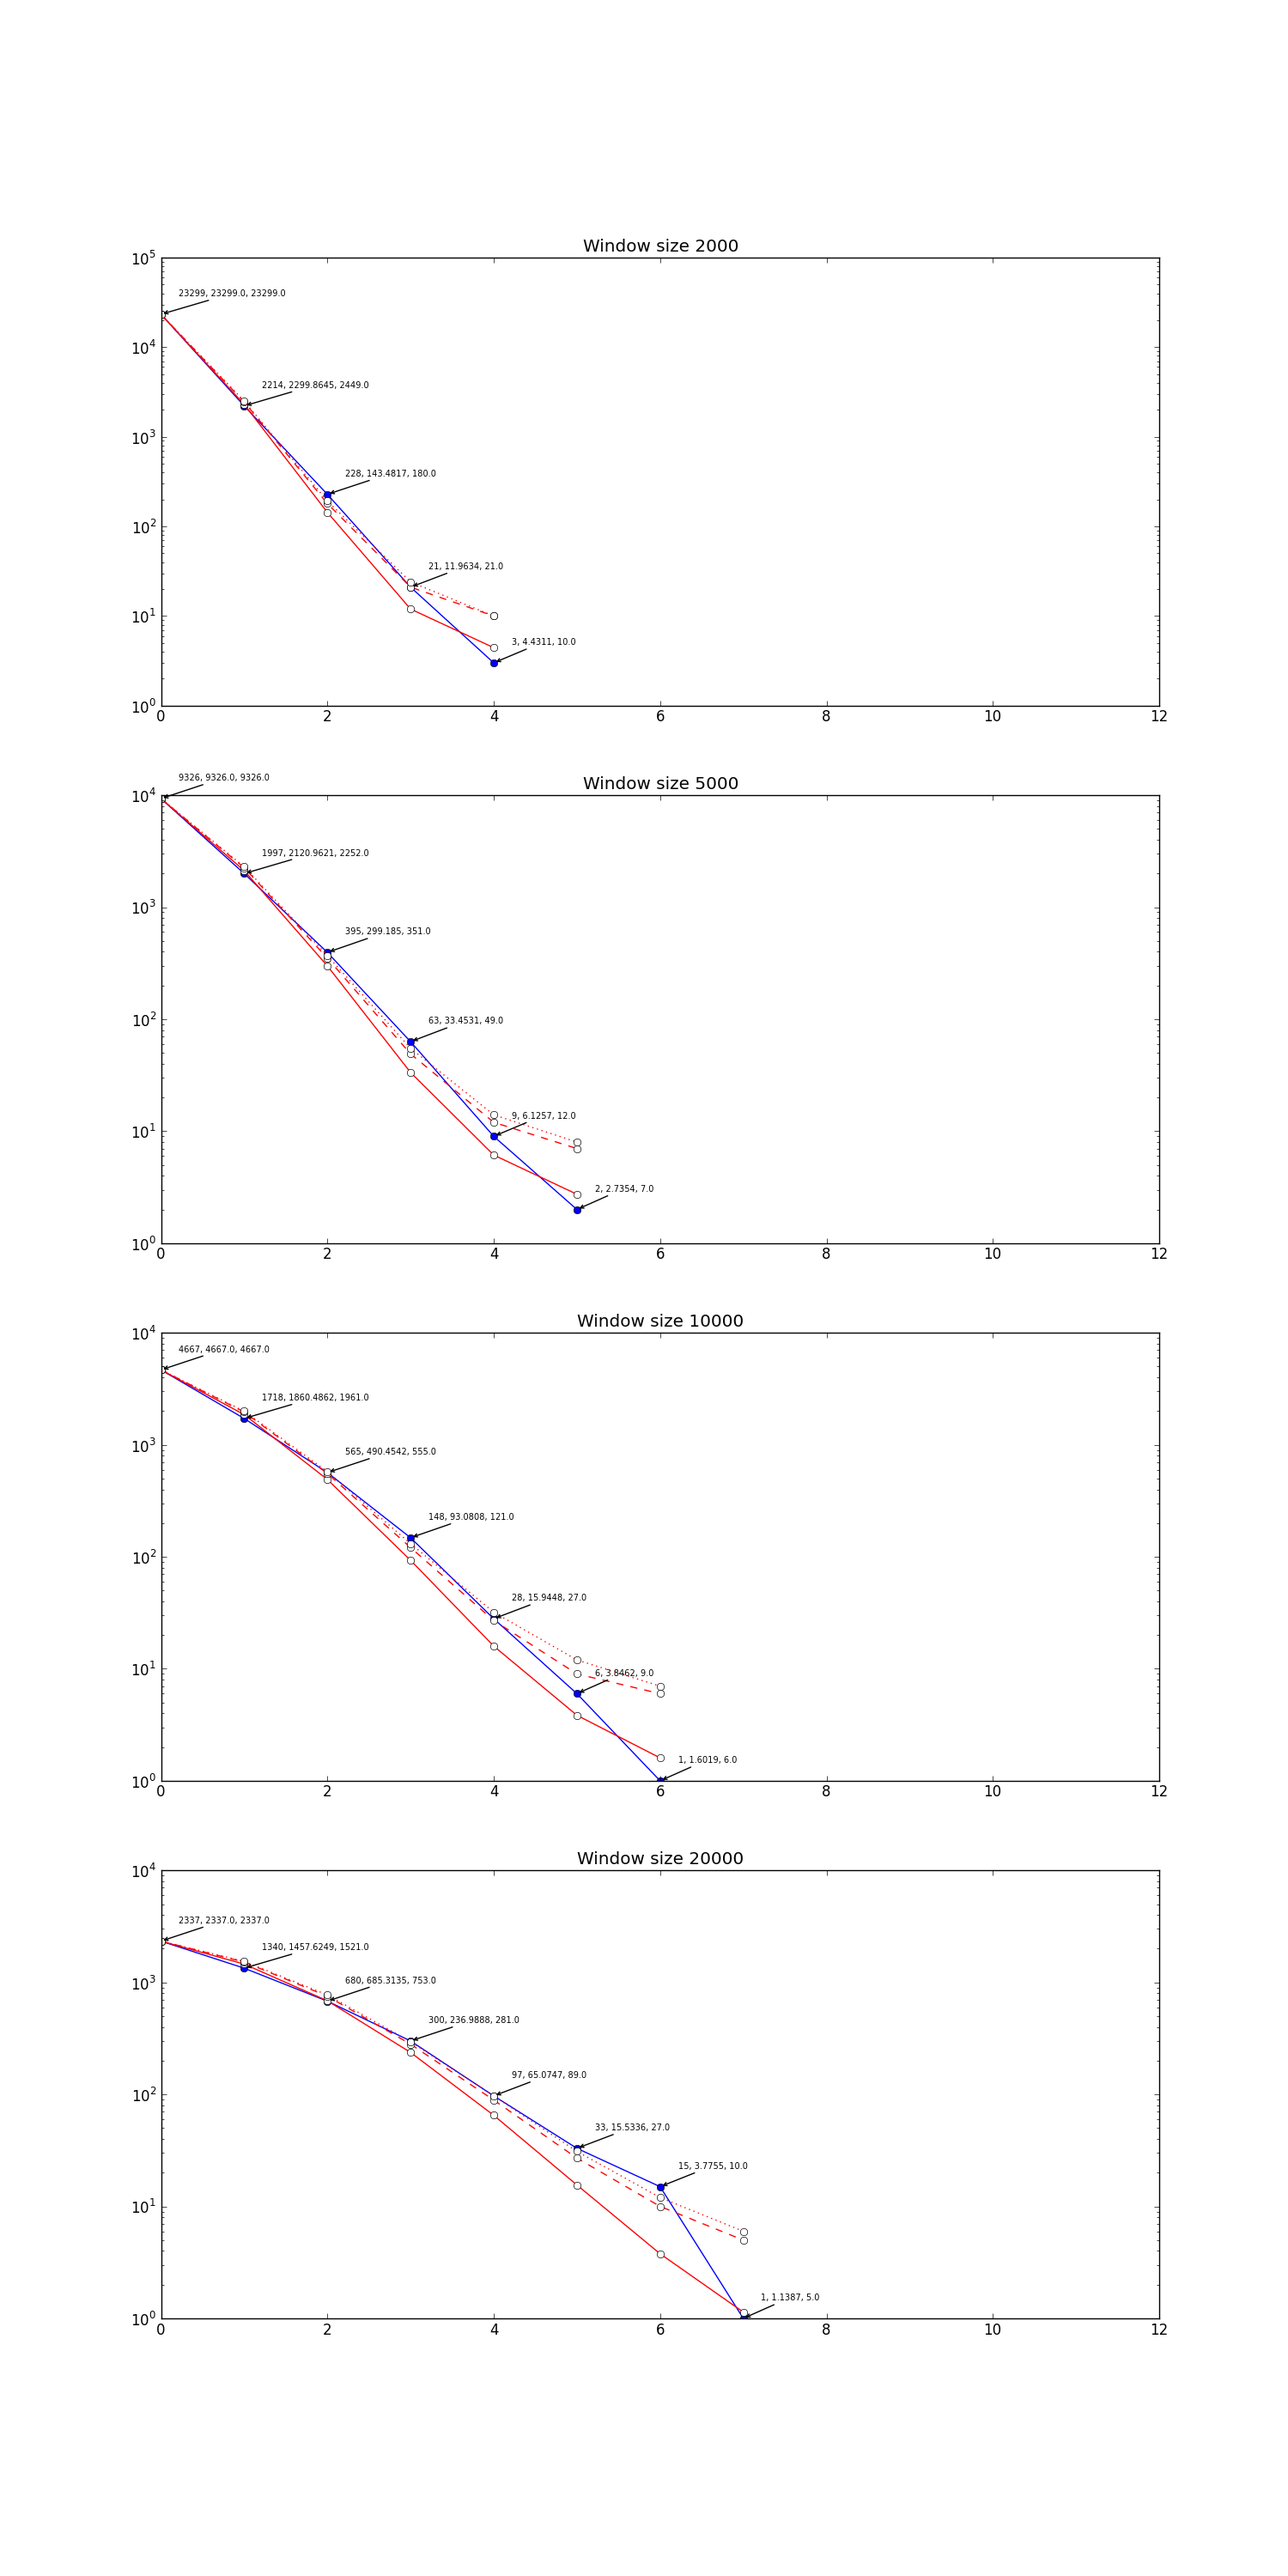
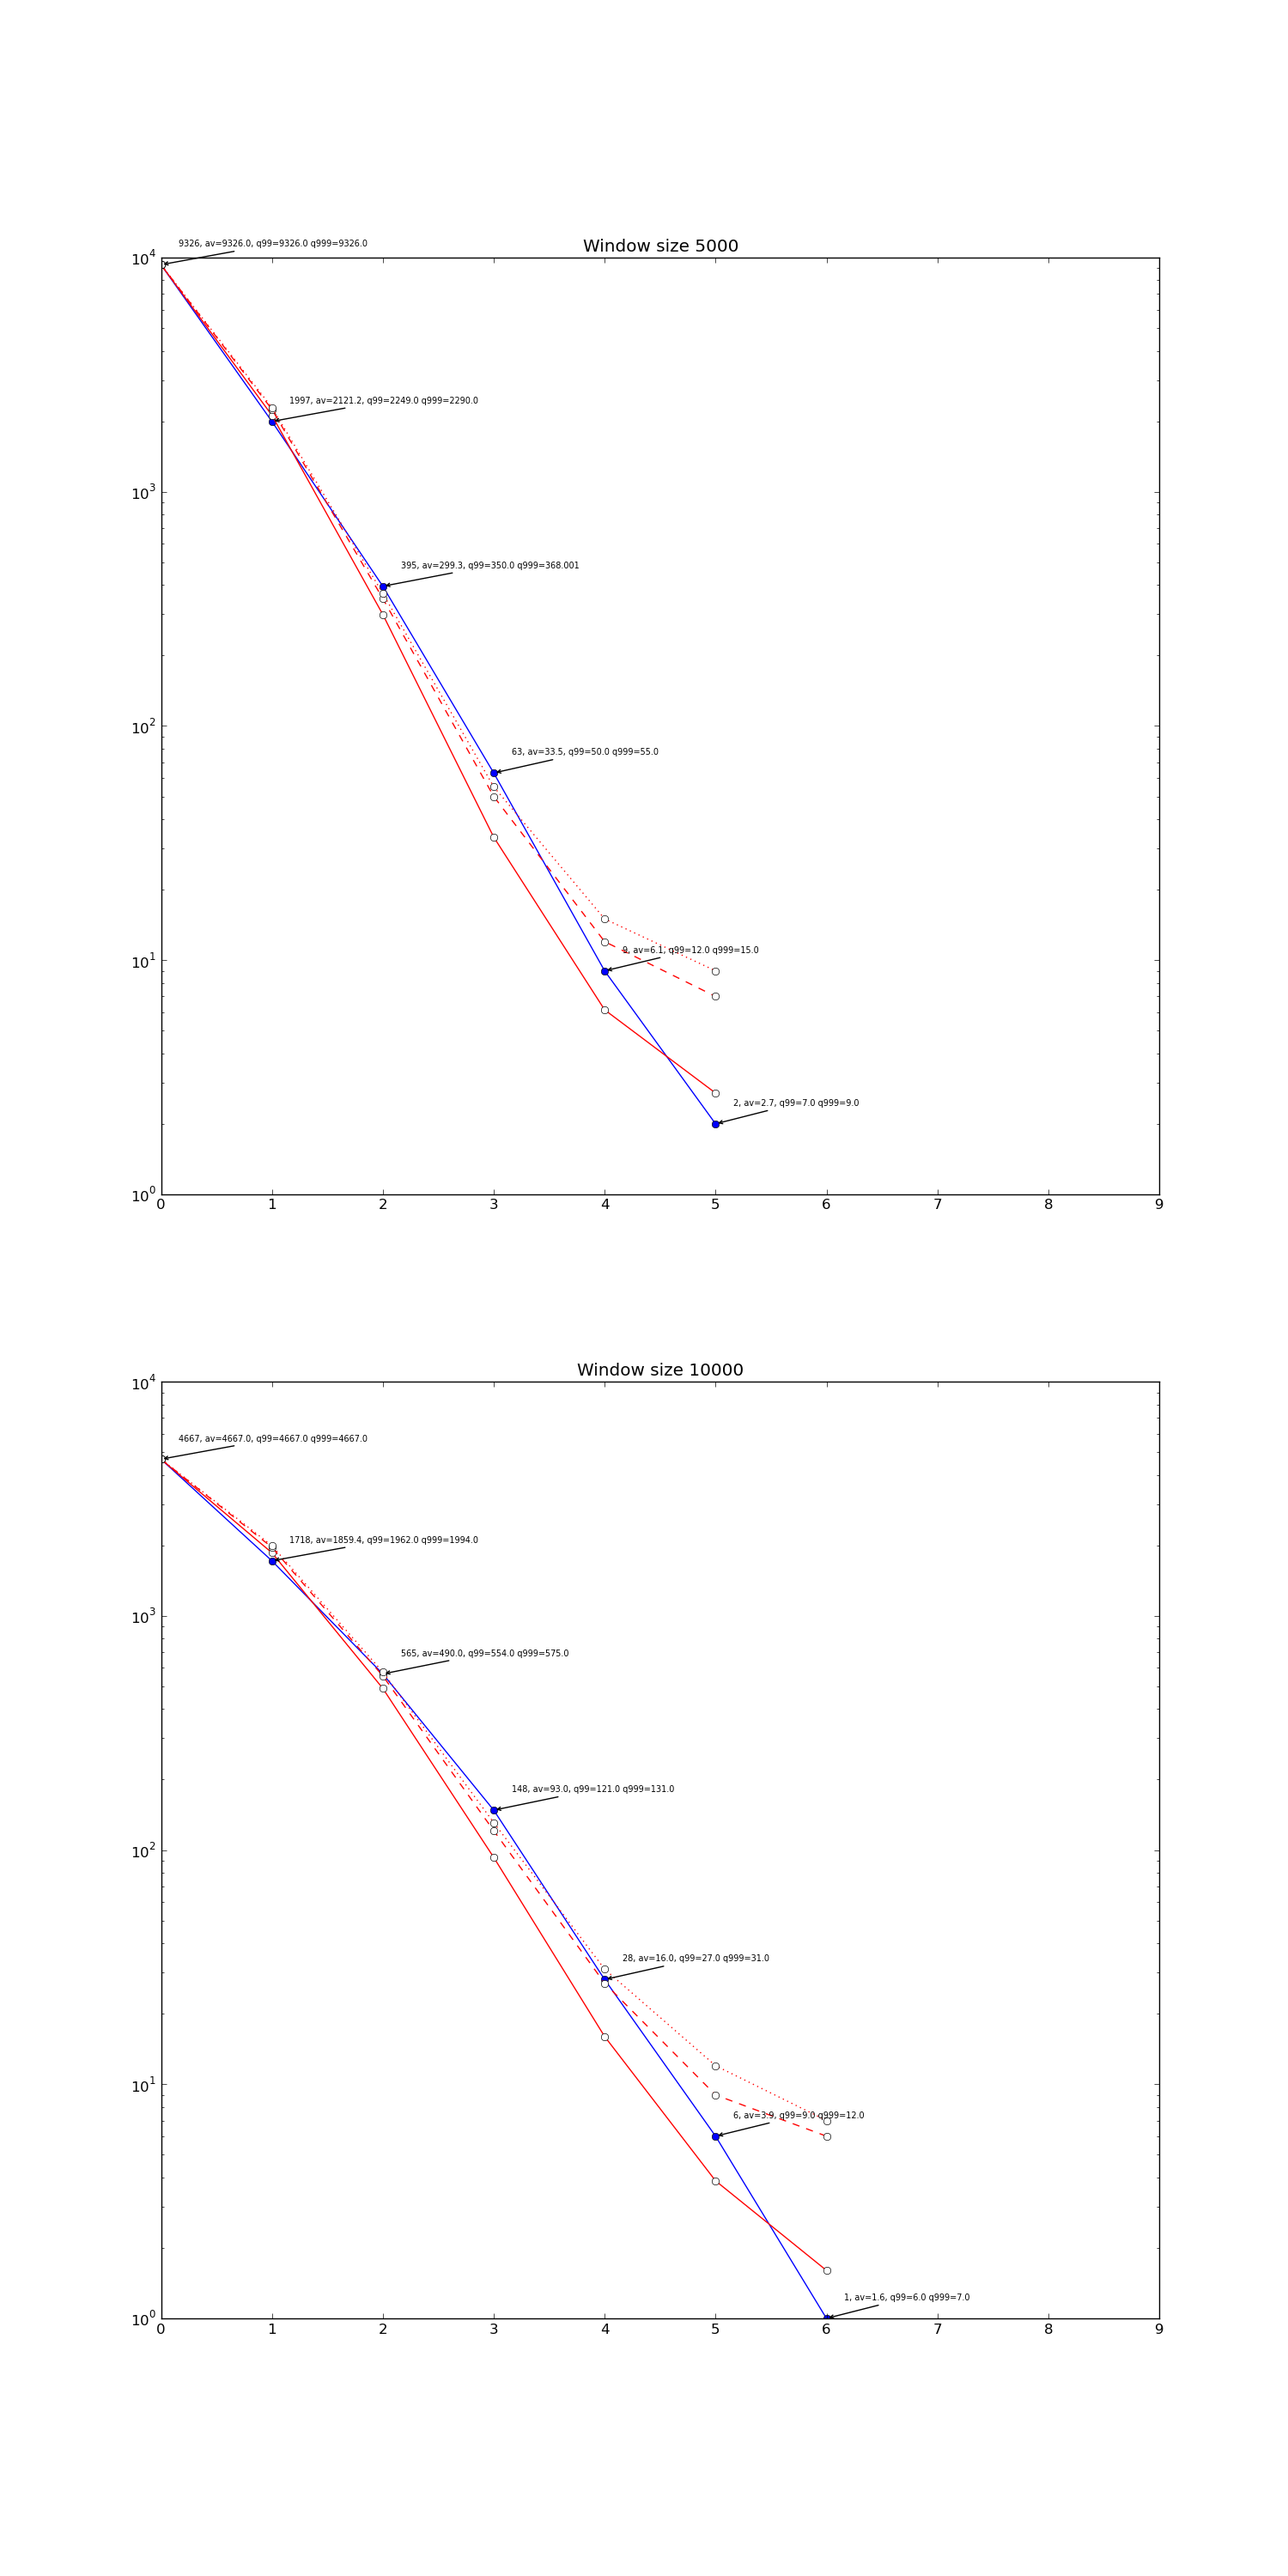
More recombination stuff

diff --git a/Src/CrossRecombination/Calc.py b/Src/CrossRecombination/Calc.py
@@ -148,7 +148,11 @@ def SimulateEvents(snpposits):
 
 
 
-def CalcIt(events, winSize):
+def CalcIt(events, winSize, saveFile = None):
+
+    if saveFile is not None:
+        fp=open(saveFile,'w')
+        fp.write('chrom\tpos\tvalue\n')
 
     event_chromoids=events['chromoids']
     event_posits=events['posits']
@@ -182,6 +186,8 @@ def CalcIt(events, winSize):
             while len(sizeCounts)<=cnt:
                 sizeCounts.append(0)
             sizeCounts[cnt] += 1
+            if saveFile is not None:
+                fp.write('{0}\t{1}\t{2}\n'.format(chromoId,winStart+winSize/2,cnt))
             winStart+=winSize/2
     sizeCountsCumul =[]
     for size in range(len(sizeCounts)):
@@ -191,6 +197,10 @@ def CalcIt(events, winSize):
             ct += sizeCounts[size2]
             size2 += 1
         sizeCountsCumul.append(ct)
+
+    if saveFile is not None:
+        fp.close()
+
     return {
         'sizecounts' : sizeCounts,
         'sizecountscumul' : sizeCountsCumul
@@ -230,12 +240,12 @@ def SimulateStats(winSize):
     snpposits = LoadSnpPositions()
     maxcount = 200
     countsList =[[] for i in range(maxcount)]
-    for simnr in range(10000):#!!! should be at least 10000
+    for simnr in range(100000):#!!! should be at least 10000
         print('Simulation {0}'.format(simnr))
         simevents = SimulateEvents(snpposits)
         #print('Simulated total events: {0}'.format(len(simevents['posits'])))
         rs = CalcIt(simevents,winSize)
-        print(str(rs['sizecountscumul']))
+        #print(str(rs['sizecountscumul']))
         sizecountscumul = rs['sizecountscumul']
         for nr in range(maxcount):
             if nr<len(sizecountscumul):
@@ -255,7 +265,7 @@ def SimulateStats(winSize):
     return rs
 
 
-winSizeList = [2000,5000,10000,20000]
+winSizeList = [5000,10000]
 
 
 # Generate or load the simulated data
@@ -275,7 +285,7 @@ print(str(simuldata))
 
 plotnr = 0;
 fig = plt.figure(1)
-fig.set_size_inches(15,30)
+fig.set_size_inches(7,15)
 
 
 for winSize in winSizeList:
@@ -284,7 +294,7 @@ for winSize in winSizeList:
     plt.subplot(len(winSizeList),1,plotnr)
     plt.title('Window size {0}'.format(winSize))
 
-    rs = CalcIt(events,winSize)
+    rs = CalcIt(events,winSize,'hotspotwindow_{0}'.format(winSize))
     sizecountscumul = rs['sizecountscumul']
     print('SizecountsCumul: '+str(sizecountscumul))
 
@@ -297,7 +307,7 @@ for winSize in winSizeList:
 
     for idx in range(len(sizecountscumul)):
         plt.annotate(
-            '{0}, {1}, {2}'.format(sizecountscumul[idx],simpts_av[idx],simpts_q99[idx]),
+            '{0}, av={1:.1f}, q99={2} q999={3}'.format(sizecountscumul[idx],simpts_av[idx],simpts_q99[idx],simpts_q999[idx]),
             xy = (idx, sizecountscumul[idx]),
             xytext = (15, 15),
             textcoords = 'offset points',
@@ -317,10 +327,10 @@ for winSize in winSizeList:
     plt.semilogy(simpts_q999,'r:')
     plt.semilogy(simpts_q999,'wo')
 
-    plt.xlim(0,12)
+    plt.xlim(0,9)
 
 #plt.ylabel('some numbers')
-plt.savefig('plots/plot1.png')
+plt.savefig('plots/plot1.pdf')
 plt.show()
 
 sys.exit()
